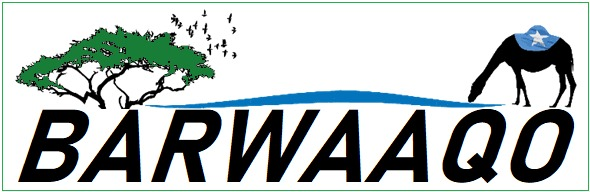
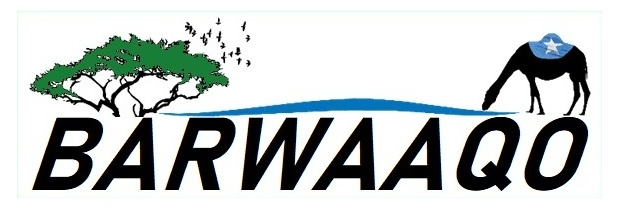
update

diff --git a/index.html b/index.html
@@ -149,7 +149,7 @@
             <h2>From evidence to investment</h2>
           </div>
           <div class="featured-work">
-            <article class="work-card">
+            <article class="work-card reverse">
               <div class="work-copy">
                 <p class="kicker">Somalia</p>
                 <h3>Barwaaqo' Somalia Water for Rural Resilience Project</h3>
@@ -159,8 +159,8 @@
                 <p>Lead geospatial monitoring and support integrated water and land planning, bringing together GEMS, basin diagnostics, climate and El Niño risk intelligence, and water resource evidence to strengthen resilient investment planning and programme decision-making</p>
                 <a class="text-link" href="https://documents.worldbank.org/en/publication/documents-reports/documentdetail/099055011182252324" target="_blank" rel="noreferrer">Explore project →</a>
               </div>
-              <div class="work-visual">
-                <img src="assets/photos/barwaaqo2.jpg" alt="A snapshot of the GEMS platform" />
+              <div class="work-visual is-logo">
+                <img src="assets/photos/barwaaqo2.jpg" alt="Barwaaqo project logo" />
               </div>
             </article>
 
@@ -174,12 +174,12 @@
                 <p>Support climate-resilient water investment across 19 counties through technical review of county investment plans, climate and water-risk analytics, decision-support tools, and practical guidance for more sustainable and climate-proof rural water systems.</p>
                 <a class="text-link" href="https://documents.worldbank.org/en/publication/documents-reports/documentdetail/099100125034530888" target="_blank" rel="noreferrer">Explore project →</a>
               </div>
-              <div class="work-visual">
-                <img src="assets/photos/kwash.jpg" alt="Field discussion at a dry riverbed during a water mission" />
+              <div class="work-visual is-logo">
+                <img src="assets/photos/kwash.jpg" alt="K-WASH Program logo" />
               </div>
             </article>
 
-            <article class="work-card">
+            <article class="work-card reverse">
               <div class="work-copy">
                 <p class="kicker">Kenya</p>
                 <h3>K-RISE / NISIP</h3>
@@ -189,8 +189,8 @@
                 <p>As NIIC Workstream Integrator, I coordinate the technical architecture, digital platforms, monitoring systems, data governance and institutional partnerships needed to translate Kenya's National Irrigation Informatics Centre from strategic vision into an operational decision support system.</p>
                 <a class="text-link" href="https://documents1.worldbank.org/curated/en/099081726112137475/pdf/P517436-b3956987-4cee-4375-831a-3de0c24329c5.pdf">Explore project →</a>
               </div>
-              <div class="work-visual">
-                <img src="assets/photos/nisip.jpg" alt="nisip logo" />
+              <div class="work-visual is-logo">
+                <img src="assets/photos/nisip.jpg" alt="NISIP logo" />
               </div>
             </article>
 

diff --git a/style.css b/style.css
@@ -505,9 +505,22 @@ h3,
 }
 
 .work-visual img {
+  position: absolute;
+  inset: 0;
   width: 100%;
   height: 100%;
   object-fit: cover;
+  object-position: center;
+}
+
+.work-visual.is-logo {
+  background: var(--white);
+}
+
+.work-visual.is-logo img {
+  object-fit: contain;
+  padding: clamp(1.1rem, 7%, 2.4rem);
+  box-sizing: border-box;
 }
 
 .cover-art {
